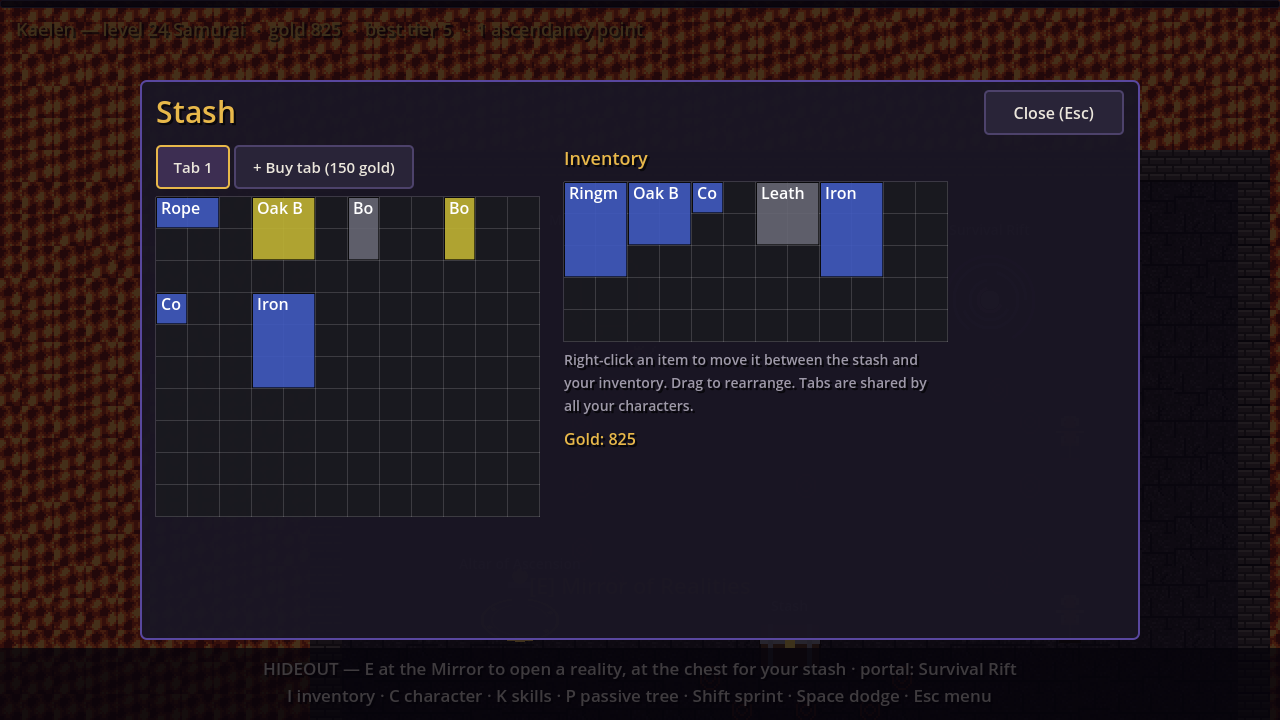
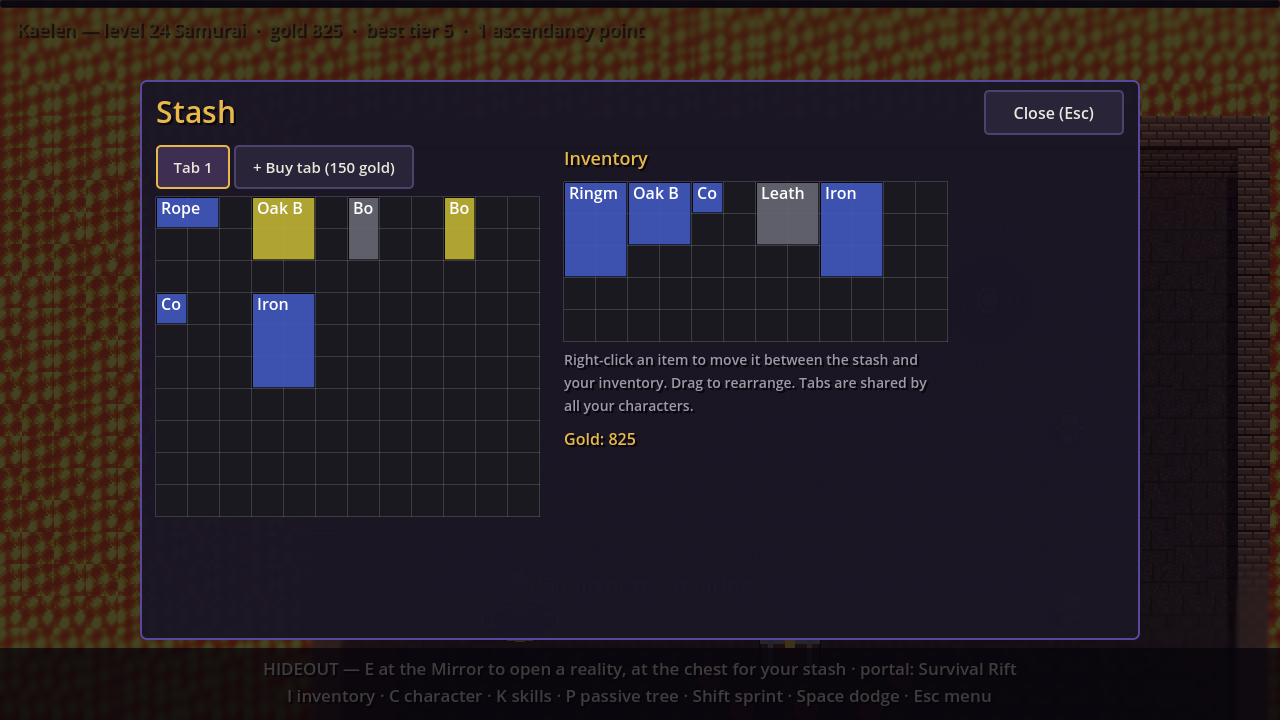
Wall chips on heavy hits, feedback tests, docs and voxel screenshots
- Heavy telegraphed hits next to walls knock bricks off them.
- EndgameSmokeTest: whole-number rolls, stash tab prices, the six-slot
  loadout, 12x10 stash grids, sprint vs walk speed and stamina regen.
- Docs: voxel HD-2D view in art-pipeline.md, paper doll/stash/messages in
  items.md, sprint in movement.md, controls in menus.md and run.md,
  CLAUDE.md notes, journal entry. Screenshots re-taken with Forward+
  (software Vulkan) in the voxel view.

Claude-Session: https://claude.ai/code/session_017oVxMuiyGo7J29bWNRcSYW

Changed region(s): [[0.0, 0.0, 1.0, 0.9167]]

diff --git a/scripts/tests/EndgameSmokeTest.cs b/scripts/tests/EndgameSmokeTest.cs
@@ -89,6 +89,8 @@ public partial class EndgameSmokeTest : Node2D
         PassiveChecks();
         GemChecks();
         ProfileChecks();
+        FeedbackChecks();
+        await SprintChecks();
         await RarityChecks();
         await BuildChecks();
         await RealityChecks();
@@ -284,6 +286,68 @@ public partial class EndgameSmokeTest : Node2D
             && back.Loadout[0].SkillUid == c.Loadout[0].SkillUid && back.Loadout[0].SupportUids.SequenceEqual(c.Loadout[0].SupportUids)
             && back.HighestTierCleared == 6;
         Check("PROFILE-CHARACTER-ROUNDTRIP", ok, $"{json.Length} bytes of JSON");
+    }
+
+    // --- feedback batch (2026-10-12) -------------------------------------------------
+
+    private void FeedbackChecks()
+    {
+        var rng = new RandomNumberGenerator { Seed = 99 };
+        bool integers = true;
+        bool fractional = false;
+        for (int i = 0; i < 200; i++)
+        {
+            float v = Items.AffixRoller.RollValue(10.2f, 20.7f, rng);
+            integers &= Mathf.IsEqualApprox(v, Mathf.Round(v)) && v >= 11f && v <= 20f;
+            float f = Items.AffixRoller.RollValue(0.02f, 0.08f, rng);
+            fractional |= !Mathf.IsEqualApprox(f, Mathf.Round(f * 100f) / 100f) || f is > 0.02f and < 0.08f;
+        }
+
+        Check("ROLLS-WHOLE-NUMBERS", integers && fractional, "ranges >= 1 roll integers (10.2-20.7 -> 11..20); 0.02-0.08 keeps decimals");
+
+        var profile = new Profile();
+        long first = profile.NextStashTabCost;
+        profile.StashTabs.Add(new List<(Items.EquipmentItem, Vector2I)>());
+        long second = profile.NextStashTabCost;
+        while (profile.StashTabs.Count < Profile.MaxStashTabs)
+        {
+            profile.StashTabs.Add(new List<(Items.EquipmentItem, Vector2I)>());
+        }
+
+        Check("STASH-TAB-COSTS", first == 150 && second == 300 && profile.NextStashTabCost == -1, $"tab 2: {first}, tab 3: {second}, after {Profile.MaxStashTabs}: {profile.NextStashTabCost}");
+        profile.Free();
+
+        Check("LOADOUT-SIX-SLOTS", CharacterData.LoadoutSlots == 6 && CharacterBuild.Slots[0] == SkillSlotId.Lmb && CharacterBuild.Slots[1] == SkillSlotId.Rmb && CharacterBuild.Slots[5] == SkillSlotId.Slot4,
+            $"{string.Join(", ", CharacterData.SlotLabels)}");
+
+        var tab = new Items.Inventory { Columns = Profile.StashColumns, Rows = Profile.StashRows };
+        Check("STASH-GRID-SIZE", tab.BuildOccupancyMask().GetLength(0) == 12 && tab.BuildOccupancyMask().GetLength(1) == 10, "stash tabs are 12x10 grids");
+        tab.Free();
+    }
+
+    private async Task SprintChecks()
+    {
+        var player = GD.Load<PackedScene>("res://scenes/Player.tscn").Instantiate<Player>();
+        AddChild(player);
+        player.GlobalPosition = new Vector2(-6000f, 0f);
+        await Frames(2);
+        Vector2 start = player.GlobalPosition;
+        Input.ActionPress("move_right");
+        await Frames(20);
+        float walked = player.GlobalPosition.X - start.X;
+        Input.ActionPress("sprint");
+        Vector2 sprintStart = player.GlobalPosition;
+        await Frames(20);
+        float sprinted = player.GlobalPosition.X - sprintStart.X;
+        float drained = player.Stamina;
+        Input.ActionRelease("sprint");
+        Input.ActionRelease("move_right");
+        await Frames(90);
+        float recovered = player.Stamina;
+        Check("SPRINT-STAMINA", sprinted > walked * 1.4f && drained < player.MaxStamina && recovered > drained,
+            $"walk {walked:0} px vs sprint {sprinted:0} px in 20 frames; stamina {drained:0} -> {recovered:0} / {player.MaxStamina:0}");
+        player.QueueFree();
+        await Frames(2);
     }
 
     // --- live checks --------------------------------------------------------------

diff --git a/scripts/View3D/VoxelStage.cs b/scripts/View3D/VoxelStage.cs
@@ -43,6 +43,10 @@ public partial class VoxelStage : Node3D
     private OmniLight3D _playerLight = null!;
     private WorldEnvironment _environment = null!;
     private readonly List<ShaderMaterial> _wallMaterials = new();
+
+    /// <summary>Wall blocks by whole-metre ground cell (for chips on heavy hits) and their colour.</summary>
+    private readonly Dictionary<Vector2I, Vector3> _walls = new();
+    private Color _wallColor = new(0.45f, 0.38f, 0.35f);
     private Node2D? _player;
 
     /// <summary>The theme's look; realities set it from their theme.</summary>
@@ -219,6 +223,11 @@ public partial class VoxelStage : Node3D
             }
 
             list.Add(new Transform3D(basis, at));
+            if (piece == "wall")
+            {
+                _walls[new Vector2I(Mathf.FloorToInt(at.X), Mathf.FloorToInt(at.Z))] = at;
+            }
+
             if (piece.StartsWith("hazard"))
             {
                 hazards.Add(at);
@@ -234,6 +243,11 @@ public partial class VoxelStage : Node3D
 
             if (piece == "wall")
             {
+                if (mesh.GetSurfaceCount() > 0 && mesh.SurfaceGetMaterial(0) is BaseMaterial3D wm)
+                {
+                    _wallColor = wm.AlbedoColor;
+                }
+
                 mesh = SeeThroughWall(mesh);
             }
 
@@ -351,6 +365,24 @@ public partial class VoxelStage : Node3D
     public void Impact(Vector2 at2D, float radiusPx, Color tint)
     {
         int count = Mathf.Clamp(Mathf.RoundToInt(radiusPx / 4f), 8, 60);
-        VoxelDebris.Puff(World, Ground(at2D), radiusPx / PixelsPerMeter, tint, count);
+        Vector3 at = Ground(at2D);
+        float radius = radiusPx / PixelsPerMeter;
+        VoxelDebris.Puff(World, at, radius, tint, count);
+
+        // Walls caught in the blast lose a few bricks.
+        int chipped = 0;
+        int r = Mathf.CeilToInt(radius) + 1;
+        Vector2I c = new(Mathf.FloorToInt(at.X), Mathf.FloorToInt(at.Z));
+        for (int dx = -r; dx <= r && chipped < 4; dx++)
+        {
+            for (int dz = -r; dz <= r && chipped < 4; dz++)
+            {
+                if (_walls.TryGetValue(c + new Vector2I(dx, dz), out Vector3 wall) && wall.DistanceTo(at) <= radius + 0.7f)
+                {
+                    VoxelDebris.Puff(World, wall + new Vector3(0f, 0.9f, 0f), 0.4f, _wallColor, 10);
+                    chipped++;
+                }
+            }
+        }
     }
 }

diff --git a/docs/design/art-pipeline.md b/docs/design/art-pipeline.md
@@ -45,6 +45,79 @@ support, passive, keystone, dodge) and the Ashen Arena tileset (4 floor, 2 lava,
 wall, rune). Sprites are drawn at 1× and scaled ×2 (bosses ×3–3.5) in game, with
 Nearest filtering project-wide.
 
+## Voxels — the HD-2D view **[IMPLEMENTED 2026-10-12]**
+
+Owner brief: *"EasyPixel now exports voxels; use them as the game's main graphics
+instead of flat 2D sprites, so enemies, the floor and walls can explode. Take the
+look to an HD-2D like Octopath Traveler, with the same camera we use now."*
+
+**Pipeline.** EasyPixel 0.2.0 (pinned to `bf08d5d`) adds a voxel export
+(`documentToVoxels` with `extrude`/`inflate`/`layers`/`slices` modes, greedy
+meshing, `.glb`/`.vox` writers). `tools/art/voxels.ts` uses it:
+
+- every animated sprite (player, classes and ascendancies, monsters, bosses,
+  props, projectiles) → one `.glb` in `assets/voxels/...` with **one node per
+  animation frame** (`f<index>`, the frame's index in the EasyPixel document),
+  built in `inflate` mode so figures are puffy rather than flat cards
+  (thickness ≈ half the sprite width, 3–12 voxels);
+- every tileset → one `.glb` of terrain pieces built from the tile pixels:
+  `floor0-3` and `rune` (2-voxel slabs), `hazard0-1` (1-voxel slabs, emissive
+  materials), `wall` (a 22-voxel-tall block whose sides repeat the tile's brick
+  rows and whose top is a lighter cap).
+
+One art pixel is 1/16 m, so a 16 px tile is one metre and the 2D scale (sprites
+×2, 32 world px per metre) maps exactly.
+
+```bash
+cd tools/art && npx tsx voxels.ts          # all voxel models (or a name filter)
+```
+
+**Runtime (`scripts/View3D/`).** The game still *simulates* in 2D; the voxel
+world is a presentation layer underneath the 2D canvas:
+
+- `HdView` (autoload) attaches a `VoxelStage` to each scene, turns its TileMaps
+  into voxel terrain (MultiMeshes) and mirrors every `AnimatedSprite2D` that has a
+  voxel model with a `VoxelActor` (also sprites spawned later).
+- **Same camera.** An orthographic `Camera3D` pitched 40° follows the active
+  `Camera2D` at the same zoom, and the 3D world is stretched in depth by
+  1/sin(pitch). The ground plane therefore lands on screen exactly where the 2D
+  world was drawn, so every 2D overlay — telegraphs, rarity plates, labels, damage
+  numbers, the gate bars — still lines up, with no gameplay code changed. Things
+  with height (walls, figures) rise up the screen like 2D sprites did.
+- `VoxelActor` follows its sprite's owner each frame (feet position, facing via
+  FlipH, frame → voxel mesh, scale, visibility); projectiles lie flat and yaw with
+  their heading at chest height. The 2D sprite is made transparent but keeps
+  animating, so all existing sprite-driving code still works. Hit flashes and tints
+  become a colour overlay.
+- **Explosions.** A dying monster breaks its current voxel frame into cubes of its
+  own colours that burst, bounce and shrink away (`VoxelDebris`). Heavy telegraphed
+  hits (radius ≥ 55 px) kick up floor cubes and knock bricks off walls they reach.
+- **HD-2D look** (Forward+): key light with shadows, a warm light on the player,
+  coloured lights over lava/ichor/water, glow, tilt-shift depth of field (top and
+  bottom of the screen blur), a touch of saturation. Walls between the camera and
+  the player dither away (`voxel_wall.gdshader`) so you never lose your character.
+- **Off switch.** Settings → *Voxel graphics (HD-2D)*; headless runs (tests, the
+  autoplay bot) never create the stage.
+
+Captures: Forward+ renders in the cloud session through Mesa's software Vulkan
+(`VK_ICD_FILENAMES=/usr/share/vulkan/icd.d/lvp_icd.json ... --rendering-driver
+vulkan`); the Compatibility renderer works but drops shadows, glow and DOF.
+
+**Alternatives considered.**
+- *Porting gameplay to 3D nodes.* Rejected for now: weeks of rework across
+  physics, telegraphs and UI for the same play; the bridge gives the look today and
+  leaves that door open.
+- *HD-2D billboards (`AnimatedSprite3D`, EasyPixel's other new export).* Closer to
+  Octopath's characters, but the brief asked for voxels that can explode; the
+  billboard export stays available if characters should go back to flat sprites.
+- *Voxelising at runtime in C#.* Would avoid the `.glb` files, but the owner asked
+  for EasyPixel's export; keeping it in the pipeline also means the models can be
+  opened in Blender/MagicaVoxel.
+
+**Open questions.** Perspective camera (true Octopath framing) would need the
+overlays re-projected; per-voxel destructible walls (today walls only shed chips);
+hand-authored voxel props (`slices` mode) for the hideout and realities.
+
 ## Alternatives considered
 
 - **MCP-driven drawing in the live editor.** The nicer workflow for a human session

diff --git a/docs/devlog/journal.md b/docs/devlog/journal.md
@@ -215,3 +215,20 @@ Owner: "go ahead with all of them" — the recommendations in endgame.md/classes
 Verified: 11/11 headless tests pass, including the new EndgameSmokeTest (layout connectivity, shard table, tier scaling, rarity multipliers, passive allocate/refund, gem XP and pickups, character save round-trip, class build, the live reality: packs, gate, boss kill, exit portal; plus the Crypt and Drowned bosses waking and telegraphing). Screenshots: `menu-characters.png`, `menu-create.png`, `hideout.png`, `mirror-panel.png`, `panel-skills.png`, `panel-passives.png`, `panel-ascendancy.png`, `reality-{ashen,crypt,drowned}-{start,pack,boss,cleared}.png`, `boss-nereth-mirror.png`, `boss-nereth-tide.png`.
 
 Unfinished, honestly: still no human playtest. The bot never equips gear, so tier 10+ numbers are a floor, and it kites at range near-perfectly. No boss-specific uniques yet; shard modifiers live at the Mirror rather than on shard items; melee skills ignore weapon type; the UI is English-only.
+
+## 2026-10-12 — Owner feedback batch and the voxel HD-2D view
+
+The owner played the Windows build and left a list for the night.
+
+- **Passive tree tooltip.** Long node text used to grow the label under the tree and resize the whole panel; nodes now get a floating `HoverTooltip` (top-level, mouse-transparent, clamped to the screen) with the node name, kind, its lines and what clicking will do.
+- **Tooltips through a closed inventory.** The grid and the equipment strip polled `Visible`, which is their own flag — still true while the panel around them is hidden. `IsVisibleInTree()` fixes it.
+- **Whole numbers.** Affix and base-stat rolls with a range reaching 1 now roll integers; tooltips print whole numbers and finally list the base's own stats.
+- **Bindings.** The loadout grew to six slots bound to LMB, RMB, 1-4; in realities and the hideout each button fires only its slot at the cursor (an empty LMB keeps click-to-move). The Survival Rift auto-casts everything auto-aimed and has no mana at all (the bar is hidden). The bot and the capture tool get a `ForceAutoCast` switch since they have no mouse.
+- **Smaller ones.** "Inventory full" floats above the player; the boss's exit portal needs E; Shift sprints on a stamina bar (two new stats); C opens a character sheet.
+- **Paper doll and stash.** The equipment strip became a body silhouette (weapon left arm, offhand right, gloves and boots under the hands, a new Pants slot under the torso). An account-wide stash lives in a chest in the hideout, with tabs that cost 150 gold and double. Inventory grids needed per-instance sizes for 12×10 tabs.
+- **Voxels.** EasyPixel 0.2 exports voxels, and the owner wanted them as the main graphics with an HD-2D look and the same camera. Porting gameplay to 3D would have been weeks; instead the 2D simulation stays and a voxel world renders under the canvas. The trick is the camera: orthographic, pitched 40°, with the whole 3D world stretched in depth by 1/sin(pitch), so the ground plane lands exactly where the 2D world was drawn. Every telegraph, label and damage number keeps lining up without touching gameplay code. `voxels.ts` turns each sprite frame into an inflated voxel figure (one node per frame in a .glb) and each tileset into slabs and brick walls. Monsters now burst into cubes of their own colours, heavy hits kick up floor and chip walls, walls dither away in front of the player, and Forward+ adds shadows, lava lights, glow and tilt-shift blur.
+- **Seeing Forward+ in the cloud.** The usual Xvfb captures run the Compatibility renderer, which in 4.1 has no shadows, glow or DOF — the first voxel screenshots looked flat for that reason alone. Installing `mesa-vulkan-drivers` and running with lavapipe (`--rendering-driver vulkan`) renders the real thing, slowly.
+
+Verified: 11/11 headless tests pass (EndgameSmokeTest gained integer rolls, stash tab prices, the 6-slot loadout and sprint/stamina through simulated input). Screenshots: `panel-inventory.png`, `panel-stash.png`, `panel-character.png`, `panel-skills.png`, `voxel-*.png`, and the reality/boss shots re-taken in voxels.
+
+Unfinished, honestly: the voxel view is a presentation layer — pickups, telegraphs and UI are still flat 2D on top; walls only shed chips (no per-voxel destruction yet); the camera is orthographic, not Octopath's perspective; nobody has played the voxel build on a real GPU yet.

diff --git a/CLAUDE.md b/CLAUDE.md
@@ -45,13 +45,14 @@ Godot game project. This file orients any agent (or future-you) working here.
 - `scripts/autoplay.sh --runs=3 [--skill=spark] [--report=30]` — the autoplay bot plays full runs headless at ~3× speed for balance work; lines are mirrored to `user://autoplay.log` (stdout is block-buffered). `--mode=reality --class=warrior|rogue|arcanist --tier=1 [--level=N] --runs=6` plays Altered Realities back to back with an in-memory character (the real profile is untouched).
 - Tests that can hang at shutdown mirror their lines to `user://test_results/<Name>.txt`; `run_all_tests.sh` reads that file too (see `EndgameSmokeTest`).
 - `scenes/tools/RunCapture.tscn` — scripted windowed run that saves devlog/PR screenshots (menu, skill pick, mid-run, level-up, pause, both bosses and their mechanics, results). `-- --only=endgame` captures character select/create, hideout, Mirror, skills/tree/altar panels, all three realities and Nereth's mechanics with demo characters.
-- `tools/art/` — the EasyPixel art pipeline (see `docs/design/art-pipeline.md`): `npm install && npm run setup && npm run build`.
+- `tools/art/` — the EasyPixel art pipeline (see `docs/design/art-pipeline.md`): `npm install && npm run setup && npm run build`; `npx tsx voxels.ts` exports the voxel models (`assets/voxels/`) used by the HD-2D view — re-run it (then re-import) whenever sprites or tilesets change.
 
 ## Game structure (PoE-style endgame + persistent characters)
 
 - Main scene `scenes/menus/MainMenu.tscn` → Play (character select/create) → `scenes/Hideout.tscn` → Mirror (E) → `scenes/reality/Reality.tscn` (an Altered Reality: room-graph layout, packs, boss behind a gate) → exit portal → hideout. The hideout portal is the Survival Rift (`scenes/run/Run.tscn`, the original survivor mode). `scenes/Main.tscn` is the original dummy sandbox ("Training Grounds").
 - Persistent character code lives in `scripts/Characters/` (classes, passive tree, gems/loadout, ascendancies, class resources); realities in `scripts/World/` (layouts, flow field, tiers, controller). Design: `docs/design/endgame.md`, `classes.md`.
-- Autoloads (`scenes/core/`): `GameSettings` (user://settings.cfg), `Profile` (persistent gear, user://profile.json), `Sfx` (procedural sounds/music). Code must tolerate their absence: tests run scenes directly.
+- Autoloads (`scenes/core/`): `GameSettings` (user://settings.cfg), `Profile` (characters + stash, user://profile.json), `Sfx` (procedural sounds/music), `HdView` (voxel HD-2D view). Code must tolerate their absence: tests run scenes directly.
+- **Graphics: 2D simulation, voxel presentation.** Gameplay is all 2D nodes; `scripts/View3D/` renders a voxel 3D world under the 2D canvas with an orthographic camera synced to the Camera2D (ground plane lines up pixel-for-pixel with 2D overlays). 2D sprites are hidden via `SelfModulate` alpha 0 — don't use `SelfModulate` for gameplay effects. Headless runs never create the 3D stage. Forward+ captures in the cloud: install `mesa-vulkan-drivers`, run with `VK_ICD_FILENAMES=/usr/share/vulkan/icd.d/lvp_icd.json` and `--rendering-driver vulkan` (Compatibility/opengl3 works but has no shadows/glow/DOF in 4.1).
 - Design docs per system: endgame, classes, run, progression, dodge, enemies, bosses, menus, art-pipeline (plus the earlier movement, skills, stats, items, affixes).
 
 ## Repo layout (create as needed, keep consistent)

diff --git a/docs/design/items.md b/docs/design/items.md
@@ -581,6 +581,30 @@ feedback.)*
 6. **Flasks** — charges, time regen, refill orbs.
 7. **Sets and Majestics** — `SetDefinition`, `CastModifier` subclasses.
 
+## Paper doll, pants, stash and messages **[IMPLEMENTED 2026-10-12]**
+
+Owner feedback after the first endgame build:
+
+- **Paper doll** instead of the labelled strip: a body silhouette with the helmet
+  on the head, amulet at the neck, body armour on the torso, belt at the waist, a
+  new **Pants** slot below it (new item class, *Linen Trousers* base, Plated may
+  roll on it), the **main weapon in the left arm**, the **offhand/shield in the
+  right**, **gloves under the left hand**, **boots under the right**, a ring by each
+  hand. Jewellery slots show a rarity-coloured gem; the tooltip has the details.
+  The inventory panel sits on the right of the screen, doll above the 12×5 grid.
+- **Stash** at a chest in the hideout (E): account-wide tabs shared by every
+  character, 12×10 each. The first is free; more cost gold, doubling each time
+  (150, 300, 600… up to 8 tabs). Right-click moves an item between the stash tab and
+  the inventory (PoE's ctrl-click); dragging rearranges inside a grid. Saved in the
+  profile next to the characters.
+- **"Inventory full"** floats above the player when a pickup doesn't fit (the item
+  stays on the ground, as before).
+- **Whole numbers.** Rolled values whose range reaches 1 are integers (+17
+  Intelligence, never +17.5); fractional ranges (+0.05 critical multiplier) keep
+  decimals. Tooltips now also list the base's own stats (armour, etc.).
+- Tooltips only show while their grid is actually visible (they used to leak
+  through a closed inventory).
+
 ## Open questions
 
 1. **Majestic effect pool** — the 10 effects above are [PROPOSED]; confirm, cut, or

diff --git a/docs/design/menus.md b/docs/design/menus.md
@@ -57,6 +57,25 @@ game, joins the panel stack, Escape or the button closes):
   refund (gold); hover reads a node.
 - **Altar**: see docs/design/classes.md -> "Ascendancies".
 
+## Controls (2026-10-12)
+
+| Key | Action |
+|---|---|
+| WASD | move (Shift sprint, Space dodge, Ctrl force-move) |
+| LMB, RMB, 1, 2, 3, 4 | the six loadout skills, aimed at the cursor (realities, hideout) |
+| E | interact: Mirror, Altar, Stash, the exit portal after a boss |
+| I / C / K / P | inventory, character sheet, skills, passive tree |
+| Esc | close the top panel, else pause |
+
+In the Survival Rift skills auto-cast and auto-aim (no mana). The boss's exit
+portal is used with E, never by walking onto it, since loot lands around it.
+
+**Character sheet (C)**: attributes with what each grants, defences (life, mana,
+stamina, armour, resistances, dodge), offence (speeds, critical, area,
+projectiles, ailments), utility and records. **Tooltips** on the passive tree float
+next to the cursor (`HoverTooltip`) instead of a line under the tree, so long text
+never resizes the panel.
+
 ## Pause (Escape)
 
 `UI/PauseMenu.cs`, in the run, the hideout and the sandbox. Escape first closes an

diff --git a/docs/design/run.md b/docs/design/run.md
@@ -101,6 +101,14 @@ There is no click-to-move inside a run: LMB/RMB are cleared, and WASD + dodge is
 whole movement kit. Click-to-move still works in the hideout and the sandbox, where
 `force_move` moved from Space to **Shift** (Space is the dodge everywhere).
 
+### Controls in the endgame era (2026-10-12)
+
+The Survival Rift keeps the genre's rule: **every equipped skill fires on its own,
+auto-aimed, and costs nothing** — there is no mana bar here. In realities and the
+hideout skills are cast by hand instead: the six loadout slots are bound to
+**LMB, RMB, 1, 2, 3, 4**, each button firing only its own slot at the cursor
+(an empty LMB keeps click-to-move). See docs/design/menus.md -> "Controls".
+
 ## Tuning — the autoplay bot
 
 `scripts/autoplay.sh --runs=3 [--skill=spark]` plays full runs headless and

diff --git a/docs/design/movement.md b/docs/design/movement.md
@@ -161,3 +161,12 @@ there is no click-to-move at all — LMB/RMB are cleared and WASD + dodge is the
 movement kit (docs/design/run.md → Controls); click-to-move and `force_move` still
 work in the hideout and the sandbox. The player's physics layer is now
 PlayerFaction only, so enemies pass through it instead of body-blocking.
+
+
+## Fifth pass: sprint **[IMPLEMENTED 2026-10-12]**
+
+**Shift** sprints (×1.55 speed) while moving, draining stamina at 30/s. Stamina is
+two new stats — `MaxStamina` (100) and `StaminaRegen` (22/s, after a 0.7 s pause) —
+so passives and gear can build around it later. Running dry exhausts you until
+stamina is back to 30 %, so sprint can't be feathered at zero. A thin yellow bar
+under mana shows it (red while exhausted). `force_move` moved from Shift to Ctrl.
